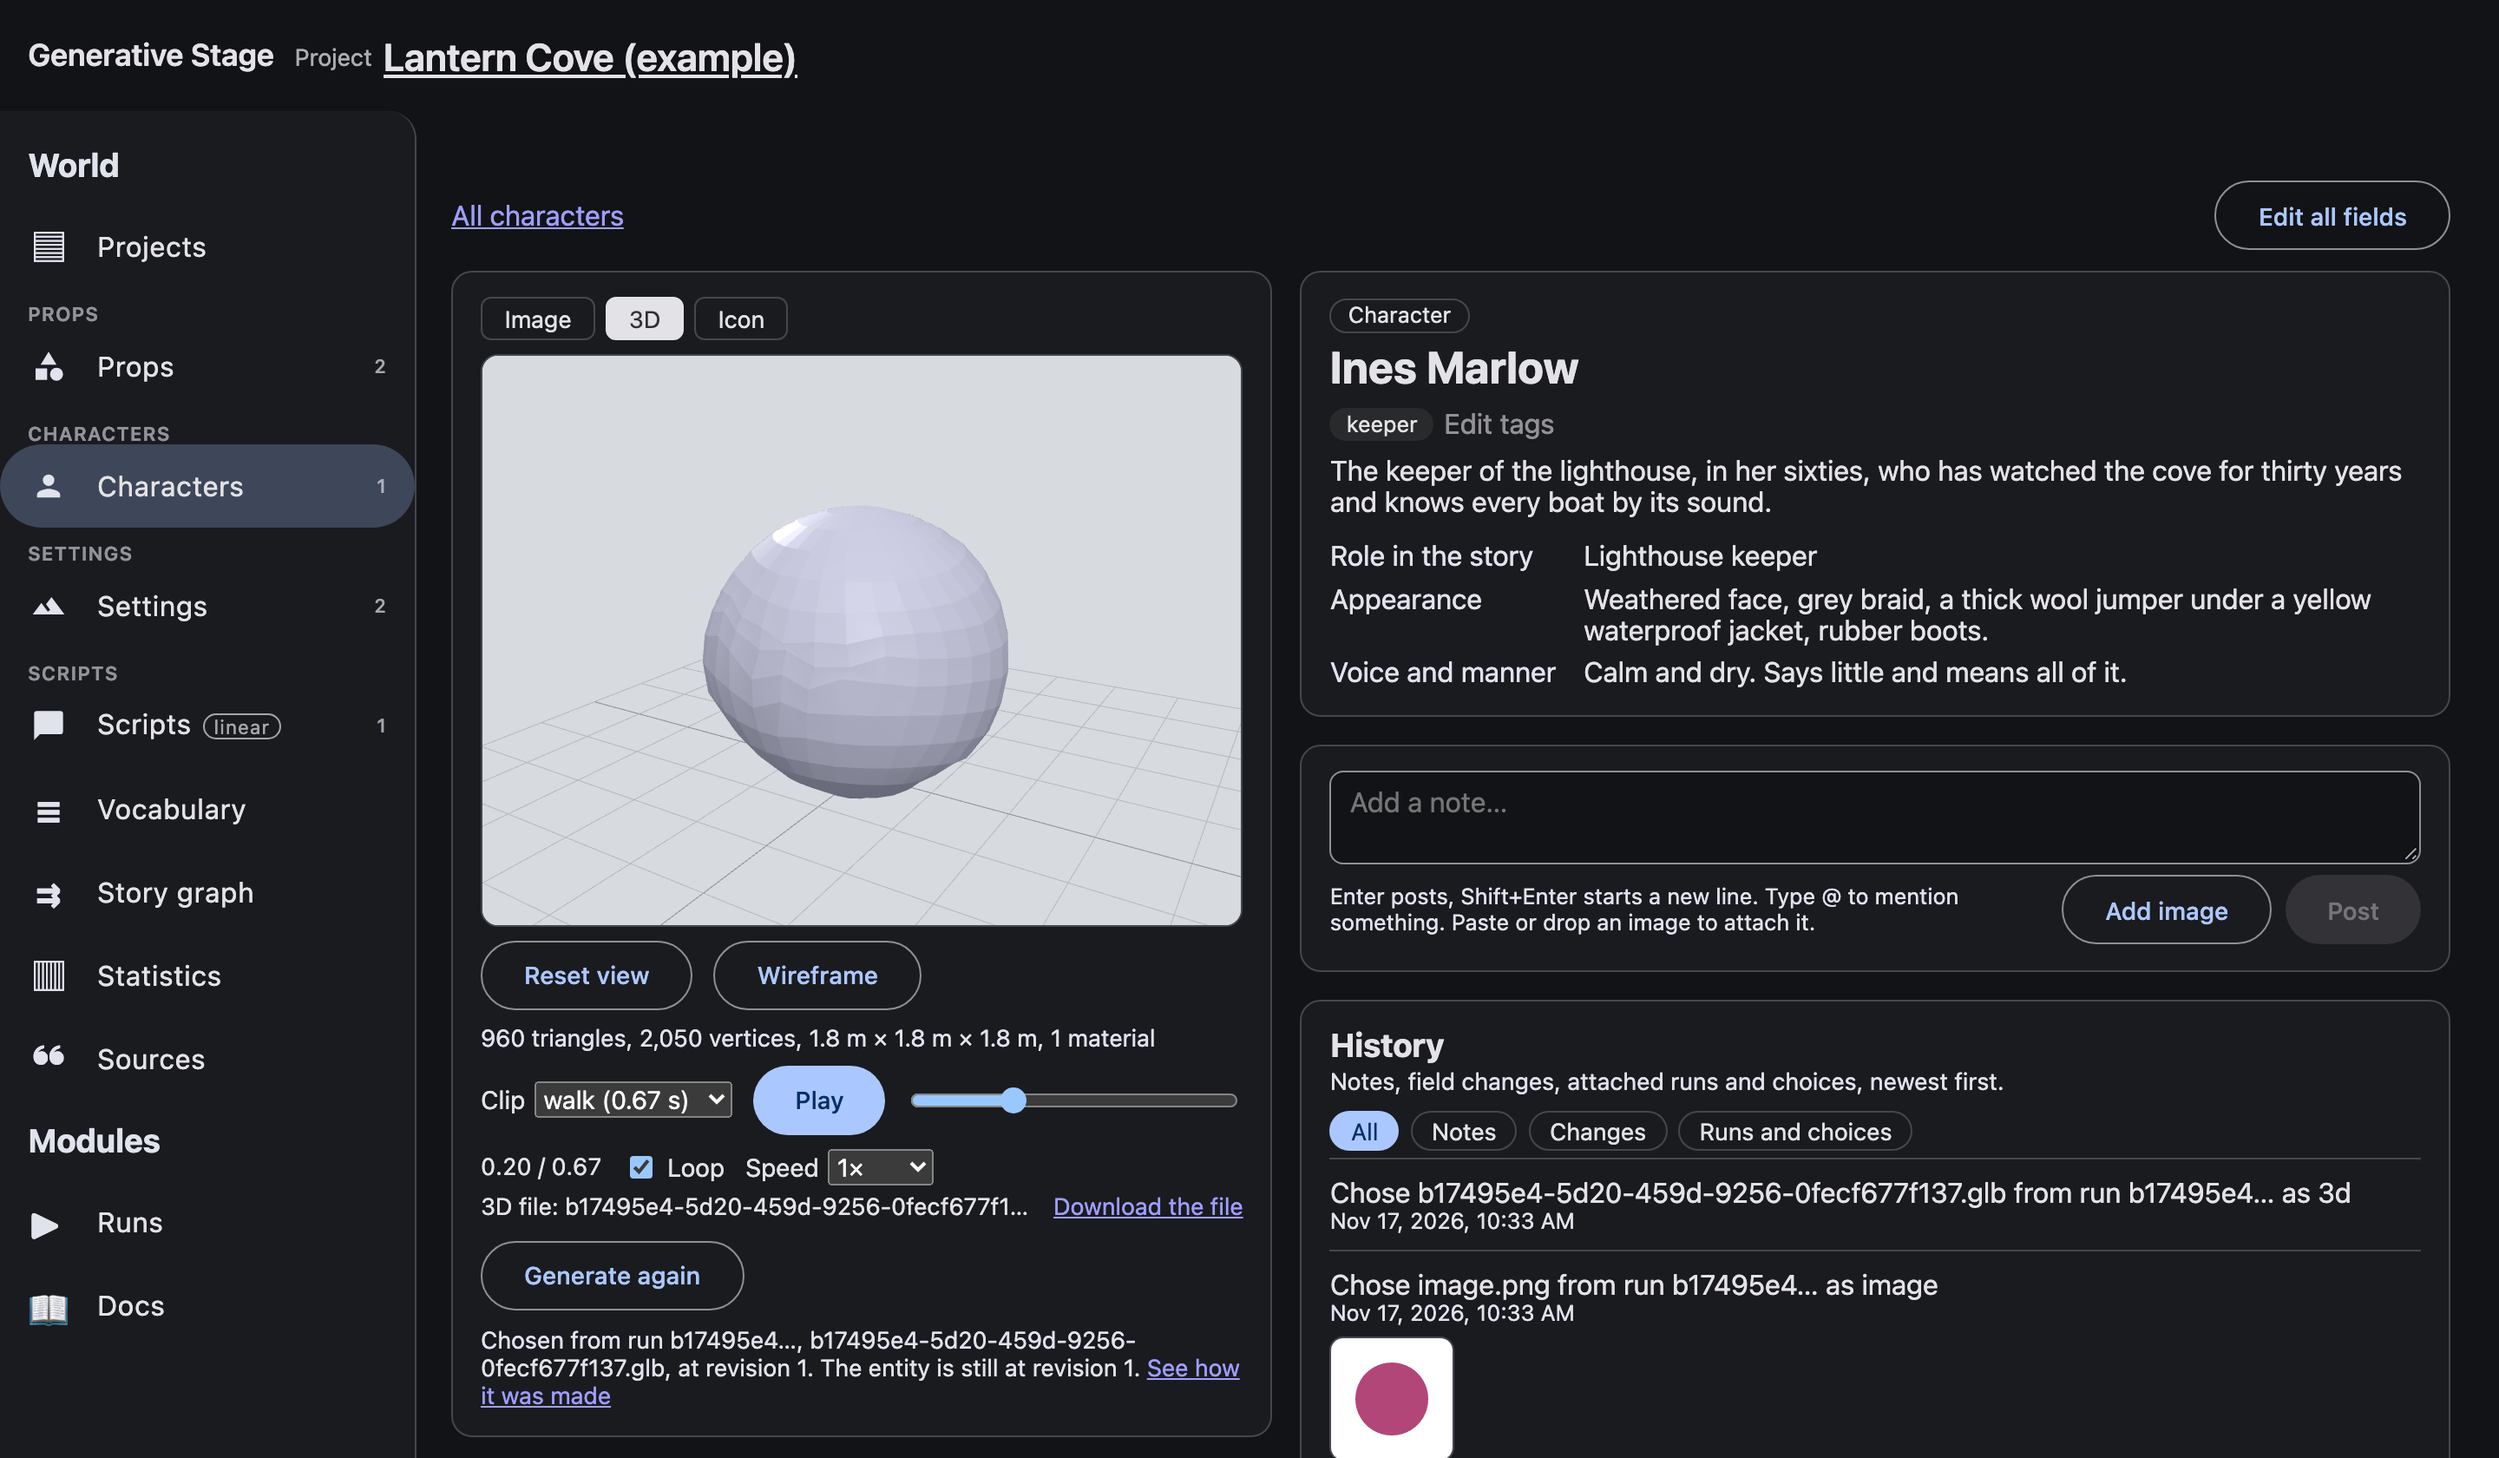
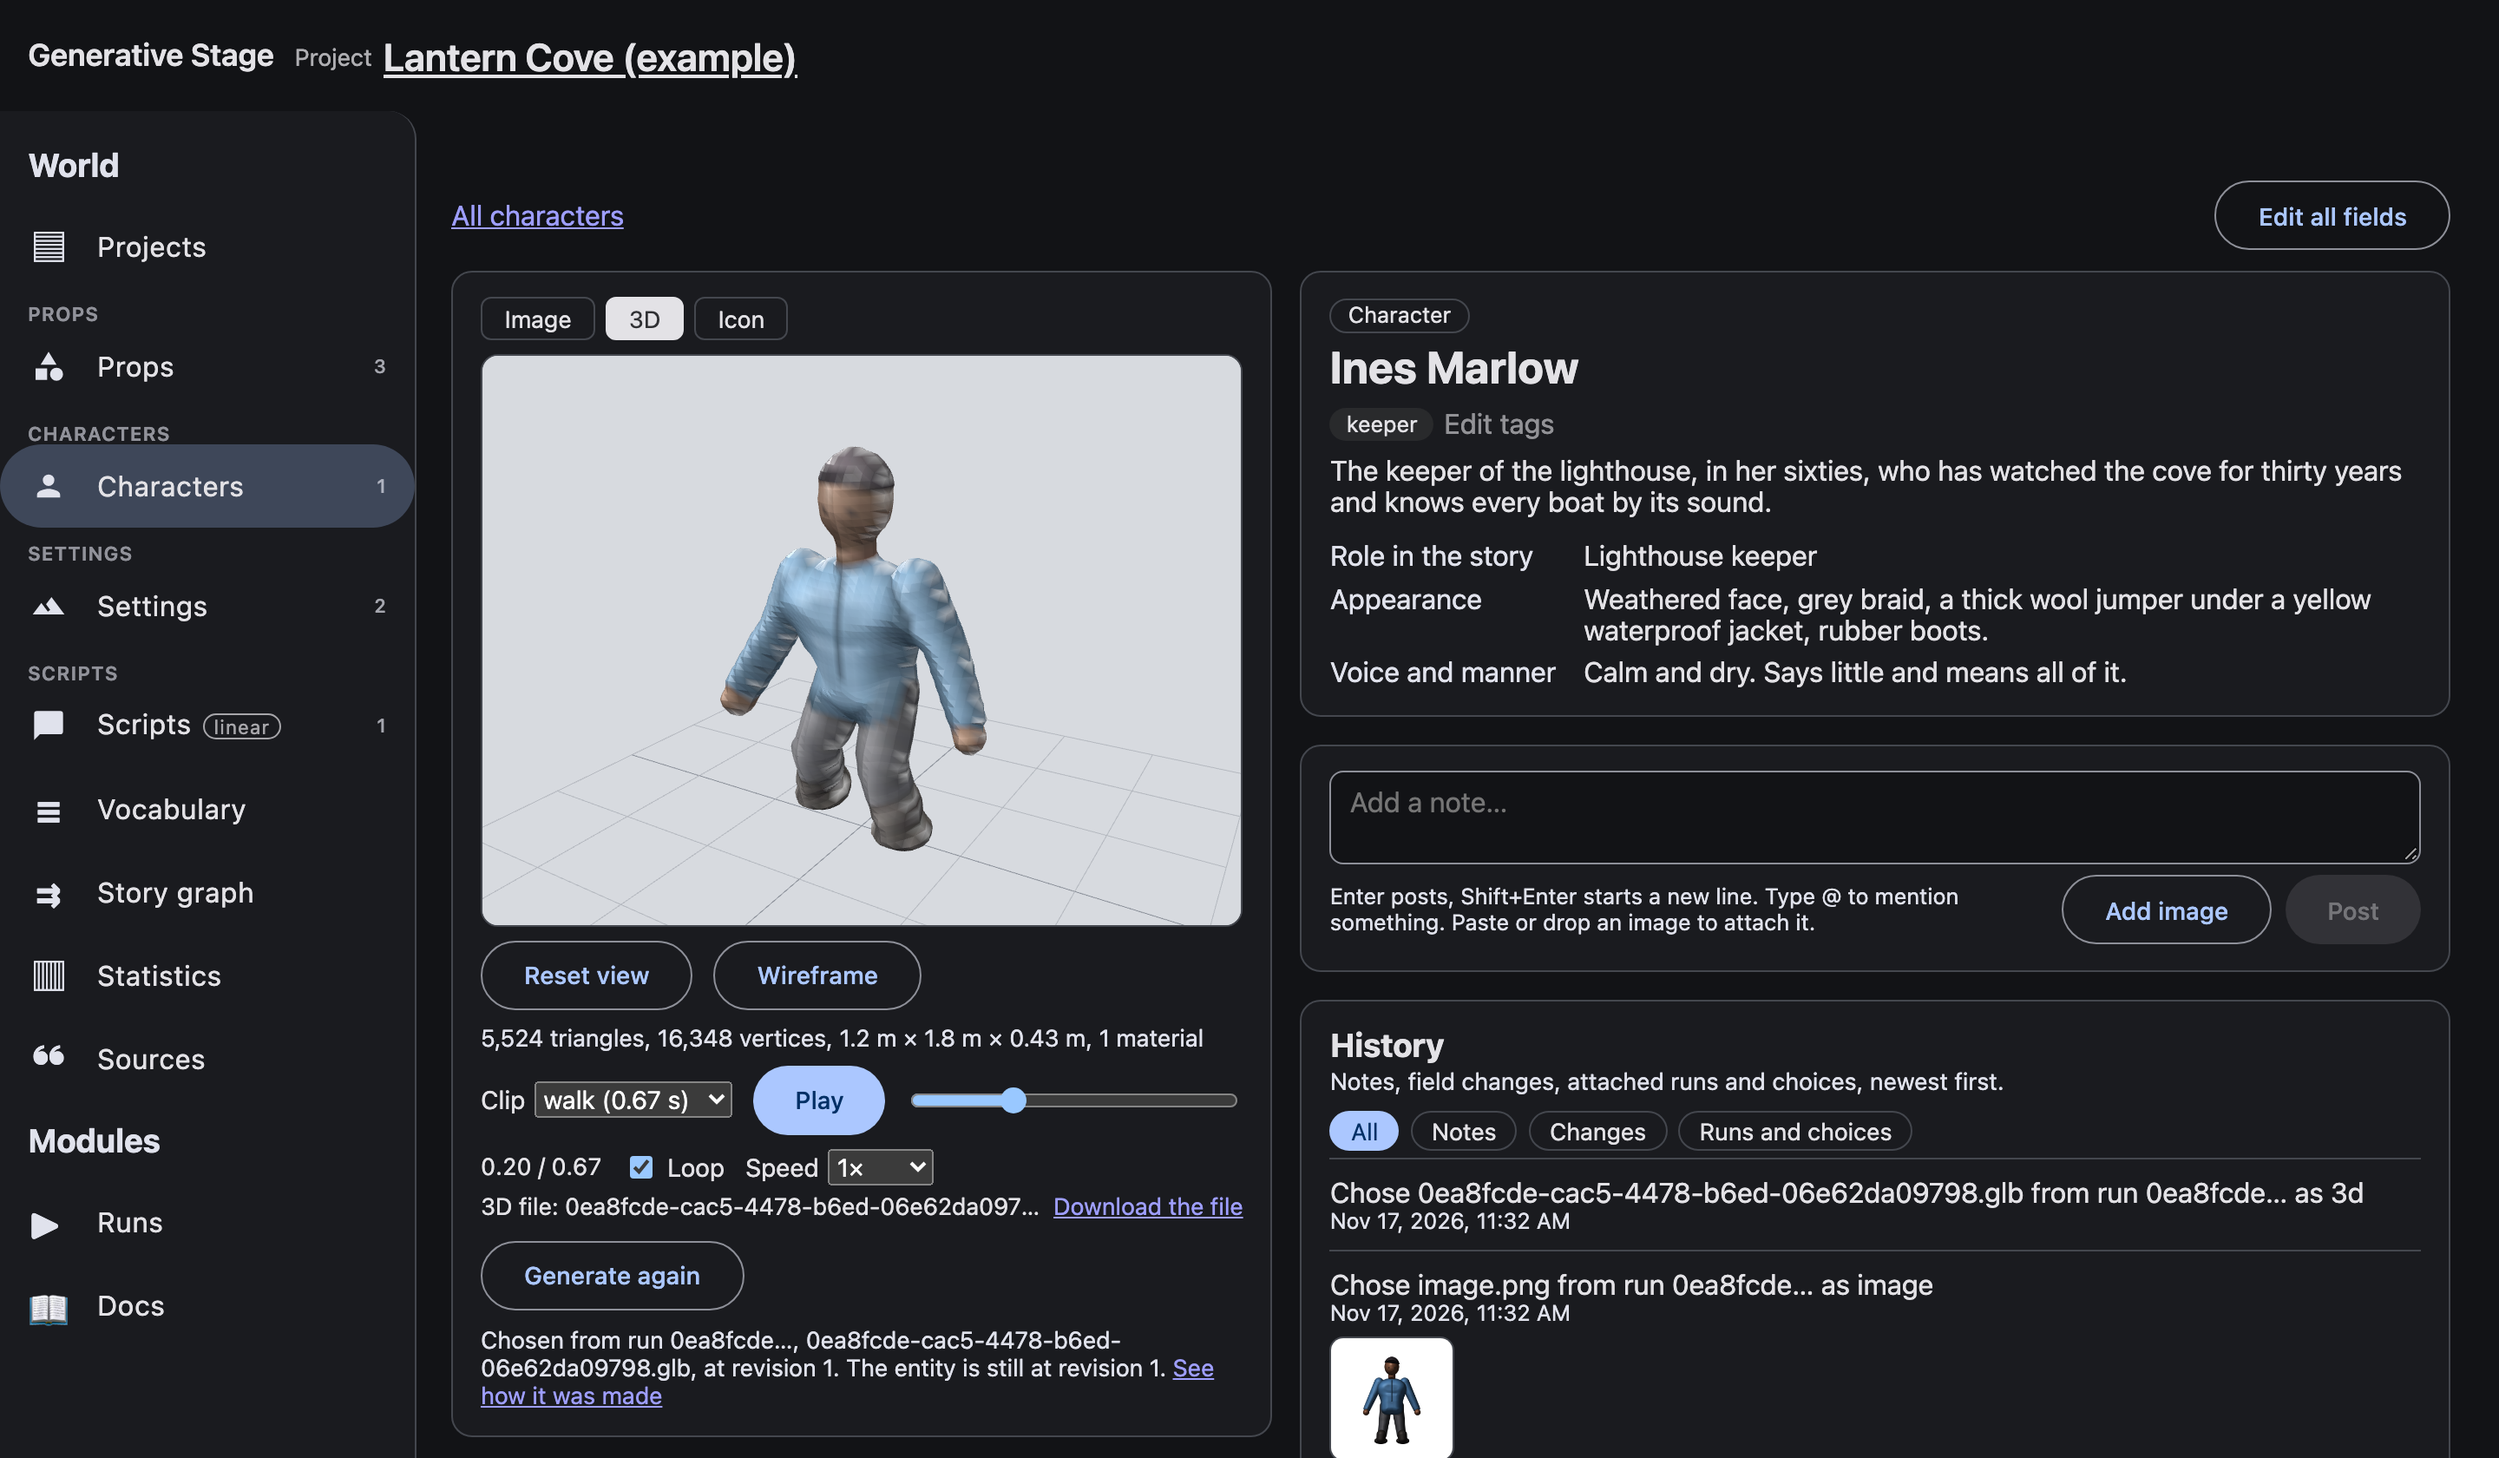
Re-make the README screenshots from the new stand-in output, led by the fiddle
The screenshots were re-captured from a fresh install running the example, with
the fiddle in the viewer, trace, gate and generate shots. The README says they
come from the built-in procedural generators and no AI model.

diff --git a/README.md b/README.md
@@ -5,6 +5,8 @@ concept images, 3D models and motion clips with a record of exactly how every re
 
 ![The trace of a run: every stage, its prompt and where each word came from](docs/img/trace.png)
 
+The pictures here were made with the tool's built-in procedural generators, which draw each subject from the words of its brief and raise a 3D model from the drawing's outline, with no AI model; a model plugged in through the [adapter contract](docs/adapters.md) takes their place.
+
 You describe a world as linked records: a character *lives in* a setting, a prop *belongs to* a character. A pipeline
 turns a record's brief into assets, stage by stage. Every stage writes down what it read and what it made, so any
 asset can be opened to see the exact prompt, where each word of it came from, the inputs and outputs with their
@@ -12,7 +14,7 @@ hashes, and the measurements of every quality check. What you choose is exported
 that any engine can read.
 
 Everything runs on your own computer and nothing is sent anywhere. **No model ships with it and no GPU is needed**:
-every stage runs on a built-in stand-in that makes plain placeholder output, so the install, the example, the tests
+every stage runs on a built-in stand-in that draws its output procedurally, so the install, the example, the tests
 and the container all work as they are. A model of your own plugs in through a small, documented
 [adapter contract](docs/adapters.md).
 
@@ -22,9 +24,9 @@ It is a work in progress. Names, layout and interfaces may change.
 
 | | |
 |---|---|
-| ![A record with its chosen model](docs/img/viewer.png) | **A world of linked records.** Each record has a brief, fields from its kind's schema, notes, history and links; its chosen picture and model sit beside it, with a viewer. (The sphere is the stand-in's output.) |
-| ![The shape gate](docs/img/gate.png) | **A trace for every run, and checks that inform, not block.** Each stage shows its prompt, colour-coded by source, its settings, and its files with their hashes. Gates measure a result (is the subject whole, is the mesh closed, is it the right size) against limits; the choice stays with you. |
-| ![A rigged character](docs/img/character.png) | **Rigging and motion.** Headless Blender scripts rig a character and build clips procedurally; the viewer plays them. |
+| ![A prop with its chosen 3D model in the viewer](docs/img/viewer.png) | **A world of linked records.** Each record has a brief, fields from its kind's schema, notes, history and links; its chosen picture and model sit beside it, with a viewer. (Here, the Driftwood Fiddle's model, raised from its picture.) |
+| ![The shape gate's measures for the fiddle](docs/img/gate.png) | **A trace for every run, and checks that inform, not block.** Each stage shows its prompt, colour-coded by source, its settings, and its files with their hashes. Gates measure a result (is the subject whole, is the mesh closed, is it the right size) against limits; the choice stays with you. |
+| ![A rigged character walking in the clip player](docs/img/character.png) | **Rigging and motion.** Headless Blender scripts rig a character and build clips procedurally; the viewer plays them. |
 | ![Statistics](docs/img/statistics.png) | **Statistics from plain files.** Runs over time, time per stage, completed against errored, made against chosen. |
 
 Also: a record form generated from each kind's JSON Schema, revisions and notes on every record, a condition
